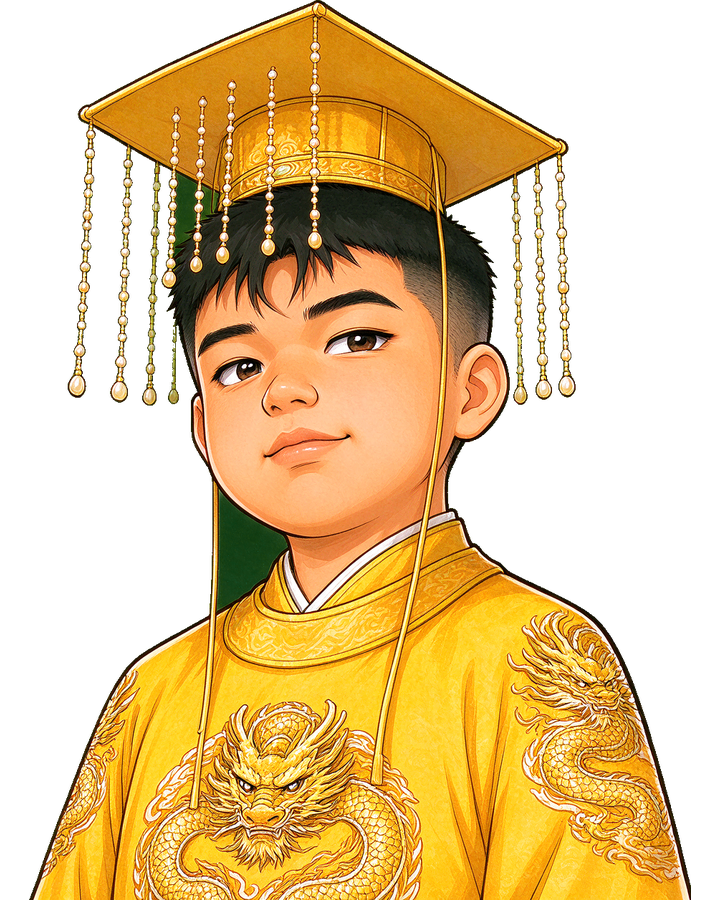
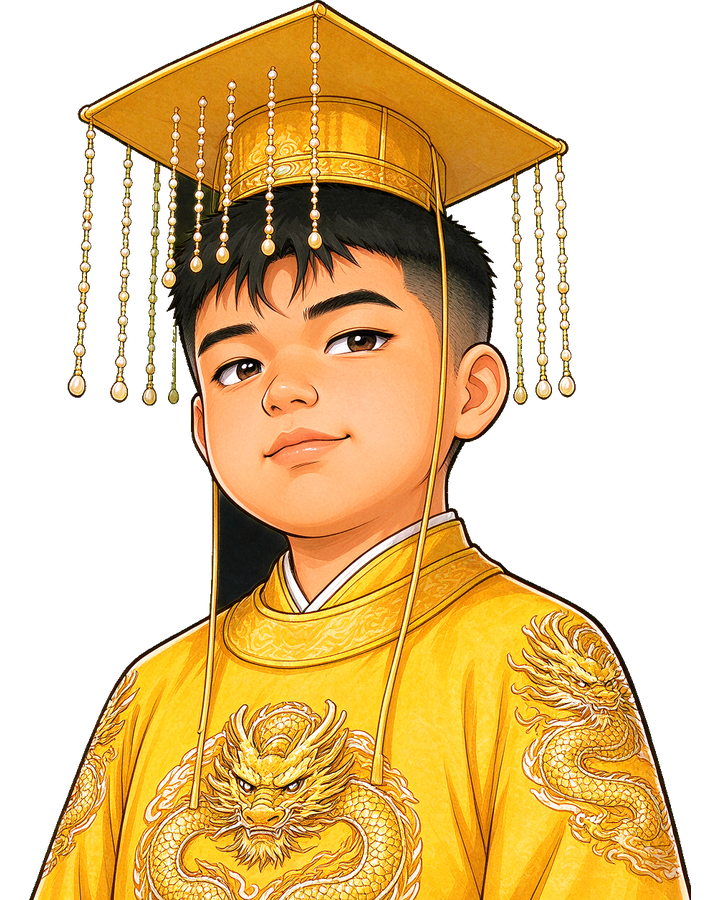
fix(ch01): 立绘去绿边与旁白不挂立绘
- 新增 tools/despill-portrait.py（green-limit，alpha 不变），全部 16 张立绘去绿边（深色头发绿幕残留）
- 旁白开口时收脸；下一位说话人重新上脸，同人 soft 原地淡回（PortraitLayer 收脸保留 image）
- 金殿删除「青筋暴起」前提前换郑卿立绘的 act；旁白只靠表情气泡
- 更新 AGENTS/ASSET-CREDITS/RESOURCE-SPEC/CH01-ACCEPTANCE 与相关单测

Changed region(s): [[0.3056, 0.5289, 0.3972, 0.6844], [0.2444, 0.1867, 0.3056, 0.28]]

diff --git a/test/palace-portrait-speaker.test.ts b/test/palace-portrait-speaker.test.ts
@@ -114,10 +114,16 @@ describe('金殿：每句台词开口时，立绘就是说话人本人', () => {
     }
   });
 
-  it('旁白不在对位表里（旁白不换脸），未知说话人也不动立绘', () => {
+  it('旁白不在对位表里，且开口时收脸（旁白不挂立绘）；未登记的人同样不动立绘', () => {
     expect(palacePortraitForSpeaker('旁白')).toBeUndefined();
     expect(palacePortraitForSpeaker(undefined)).toBeUndefined();
     expect(palacePortraitForSpeaker('没有登记的人')).toBeUndefined();
+    expect(reducePortraitForSay('旁白', { key: PALACE_TEXTURES.portraitZheng })).toEqual({
+      action: 'hide',
+    });
+    expect(reducePortraitForSay('没有登记的人', { key: PALACE_TEXTURES.portraitZheng })).toEqual({
+      action: 'hide',
+    });
   });
 });
 
@@ -165,9 +171,16 @@ describe('金殿：2026-11-18 实机串脸的那几句（回归）', () => {
     expect(line.portrait?.key).toBe(PALACE_TEXTURES.portraitMiner);
   });
 
-  it('周全顶完嘴之后镜头交回郑卿：「青筋暴起」这句时挂郑卿，气泡也才落在他头上', () => {
-    const after = playPortraits().find((line) => line.text.includes('青筋暴起'));
-    expect(after?.portrait?.key).toBe(PALACE_TEXTURES.portraitZheng);
+  it('「青筋暴起」是旁白：这句收脸，下一句郑卿开口才重新挂他的脸', () => {
+    const lines = playPortraits();
+    const narrationAt = lines.findIndex((line) => line.text.includes('青筋暴起'));
+    expect(narrationAt).toBeGreaterThanOrEqual(0);
+    expect(lines[narrationAt]?.portrait).toBeNull();
+    const nextZheng = lines
+      .slice(narrationAt + 1)
+      .find((line) => line.speaker === '郑卿');
+    // 这一句带 portraitEmotion happy（得意），所以挂的是情绪差分而不是基础脸。
+    expect(nextZheng?.portrait?.key).toBe('img.char.portrait.zheng_happy');
   });
 });
 

diff --git a/src/ui/portrait-layer.ts b/src/ui/portrait-layer.ts
@@ -46,11 +46,27 @@ export class PortraitLayer {
     }
 
     if (options.soft === true && this.image) {
-      this.image.setTexture(key);
-      this.image.setDisplaySize(metrics.width, metrics.height);
-      this.image.setPosition(metrics.anchorX, metrics.baseY);
-      this.image.setFlipX(side === 'left');
+      const image = this.image;
+      image.setTexture(key);
+      image.setDisplaySize(metrics.width, metrics.height);
+      image.setPosition(metrics.anchorX, metrics.baseY);
+      image.setFlipX(side === 'left');
       this.key = key;
+      this.scene.tweens.killTweensOf(image);
+      if (this.reduced) {
+        image.setAlpha(1);
+      } else {
+        this.scene.tweens.add({
+          targets: image,
+          alpha: 1,
+          y: metrics.baseY,
+          duration: 160,
+          ease: 'Sine.easeOut',
+          onComplete: () => this.startBreath(),
+        });
+        return;
+      }
+      this.startBreath();
       return;
     }
 
@@ -87,14 +103,19 @@ export class PortraitLayer {
     });
   }
 
+  /**
+   * 收脸：淡出但**保留 image 对象**（alpha=0、key 置空）。
+   *
+   * 保留的理由是旁白：2026-11-25 起旁白不挂立绘，旁白结束同一个人再开口时要原地淡回来
+   * （`soft`），不能每次从画面外滑进来。换人时 `show()` 会把旧 image 销毁重建。
+   */
   hide(ms = 180): void {
     const image = this.image;
     if (!image) return;
     this.stopBreath();
-    this.image = null;
     this.key = null;
     if (this.reduced) {
-      image.destroy();
+      image.setAlpha(0);
       return;
     }
     this.scene.tweens.add({
@@ -102,7 +123,6 @@ export class PortraitLayer {
       alpha: 0,
       y: image.y + 26,
       duration: ms,
-      onComplete: () => image.destroy(),
     });
   }
 

diff --git a/src/story/ch01-palace.ts b/src/story/ch01-palace.ts
@@ -119,8 +119,10 @@ export function reducePortraitForSay(
   emotion?: PortraitEmotion,
 ): PalacePortraitStep {
   const entry = palacePortraitForSpeaker(speaker, emotion);
-  if (entry === undefined) return { action: 'keep' };
-  if (entry === null) return current ? { action: 'hide' } : { action: 'keep' };
+  // 旁白/未登记（undefined）同样收脸：旁白不挂立绘。
+  if (entry === undefined || entry === null) {
+    return current ? { action: 'hide' } : { action: 'keep' };
+  }
   if (current?.key === entry.key) return { action: 'keep' };
   return { action: 'show', key: entry.key, side: entry.side };
 }
@@ -378,13 +380,8 @@ export const PALACE_BEATS: readonly PalaceBeat[] = [
   },
   { kind: 'say', speaker: '郑卿', text: '你这刺客，好大的胆子！竟敢跟朕称兄道弟起来了？', portraitEmotion: 'shocked' },
   { kind: 'say', speaker: '周全', text: '谁和你称兄道弟了？你想当我儿子我还不乐意呢！' },
-  {
-    // 周全顶完嘴把镜头交回郑卿：下一句旁白要「看到青筋」、气泡也挂在他头上，
-    // 所以先换回他的脸，别让周全的慌张特写一直挂到郑卿开口（上一版就是这样串的脸）。
-    kind: 'act',
-    actions: [{ kind: 'portrait', key: PALACE_TEXTURES.portraitZheng, side: 'right' }],
-    ms: 240,
-  },
+  // 旁白不挂立绘（2026-11-25 用户要求）：这一拍不再提前把郑卿的脸换上来，
+  // 「青筋暴起」只靠世界层的表情气泡表达；下一句郑卿开口时立绘会 soft 淡回来。
   { kind: 'say', speaker: '旁白', text: '你看到郑卿脸上青筋暴起。' },
   {
     // 旁白说完才冒气泡：先看见青筋、再听见他发火，因果顺序不能倒。

diff --git a/src/ui/dialogue-portrait.ts b/src/ui/dialogue-portrait.ts
@@ -1,6 +1,10 @@
 import Phaser from 'phaser';
 import type { DialogueLine } from '../story/dialogue';
-import { reducePortraitForLine, type SpeakerPortrait } from '../story/portraits';
+import {
+  portraitOwnerOfKey,
+  reducePortraitForLine,
+  type SpeakerPortrait,
+} from '../story/portraits';
 import { PortraitLayer } from './portrait-layer';
 
 /** 一句台词里能影响立绘的字段（场景只把 `DialogueLine` 的子集交给它）。 */
@@ -23,6 +27,13 @@ export class DialoguePortrait {
   private readonly scene: Phaser.Scene;
   private readonly layer: PortraitLayer;
   private current: SpeakerPortrait | null = null;
+  /**
+   * 上一次真正上过脸的角色。
+   *
+   * 旁白会收脸（`current=null`），但「旁白前是谁」要记住：同一人紧接旁白再开口时，
+   * 走 soft 原地淡回来，而不是又从画面外滑进来。
+   */
+  private lastOwner: string | null = null;
 
   constructor(scene: Phaser.Scene, reduced: boolean) {
     this.scene = scene;
@@ -48,8 +59,12 @@ export class DialoguePortrait {
       this.hide();
       return;
     }
-    this.layer.show(step.key, step.side, { soft: step.soft === true });
+    const owner = portraitOwnerOfKey(step.key);
+    const soft =
+      step.soft === true || (this.current === null && owner !== null && owner === this.lastOwner);
+    this.layer.show(step.key, step.side, { soft });
     this.current = { key: step.key, side: step.side };
+    this.lastOwner = owner;
   }
 
   hide(ms = 180): void {

diff --git a/src/story/portraits.ts b/src/story/portraits.ts
@@ -185,7 +185,7 @@ function lineSuppressesPortrait(
  * - 同一个人已经在场 → `keep`：保留显式站位，不要每句都从画面边上滑回来；
  * - 换人 → `show` 该角色的立绘与默认站位；
  * - 说话人明确没有立绘 / 未登记的陌生人 → `hide`（宁可空着，也不挂别人的脸）；
- * - 旁白 → `keep`（不闪）；
+ * - 旁白 → `hide`（旁白不挂立绘，2026-11-25 用户要求）；
  * - CG/黑场行 → `hide`，CG 结束后的旁白也保持收脸，直到下一位有脸的人开口。
  */
 export function reducePortraitForLine(
@@ -197,8 +197,11 @@ export function reducePortraitForLine(
 ): PortraitStep {
   if (lineSuppressesPortrait(line)) return current ? { action: 'hide' } : { action: 'keep' };
   const entry = portraitForSpeaker(line.speaker, line.role, line.portraitEmotion);
-  if (entry === undefined) return { action: 'keep' };
-  if (entry === null) return current ? { action: 'hide' } : { action: 'keep' };
+  // 旁白（undefined）与「明确没立绘」（null）都收脸：2026-11-25 用户明确「旁白时候不需要有立绘」。
+  // 下一位说话人会重新入场；同一个人再开口时由 `DialoguePortrait` 走 soft 淡回来（不滑入）。
+  if (entry === undefined || entry === null) {
+    return current ? { action: 'hide' } : { action: 'keep' };
+  }
   if (current?.key === entry.key) return { action: 'keep' };
   const soft =
     current !== null &&

diff --git a/test/dialogue-portrait-registry.test.ts b/test/dialogue-portrait-registry.test.ts
@@ -22,7 +22,7 @@ import { reducePortraitForSay } from '../src/story/ch01-palace';
  *
  * 1. 每个剧本里出现过的说话人都在 `SPEAKER_PORTRAITS` 里表过态（有脸给 key，没脸给 null）；
  * 2. 那个 key 所在的 bundle **真的被该场景加载**（不是画了图却没打进去）；
- * 3. 归约语义：旁白保持、换人换脸、没脸收脸、CG/黑场不叠图。
+ * 3. 归约语义：旁白收脸、换人换脸、没脸收脸、CG/黑场不叠图。
  */
 
 const STORY_SOURCES = [
@@ -135,9 +135,11 @@ describe('reducePortraitForLine：谁开口谁上脸', () => {
     });
   });
 
-  it('旁白不换脸（避免每句旁白闪一下）', () => {
-    expect(reducePortraitForLine({ speaker: '旁白' }, zhou)).toEqual({ action: 'keep' });
-    expect(reducePortraitForLine({}, xiaobai)).toEqual({ action: 'keep' });
+  it('旁白不挂立绘（有脸就收掉；本来没脸则什么都不做）', () => {
+    expect(reducePortraitForLine({ speaker: '旁白' }, zhou)).toEqual({ action: 'hide' });
+    expect(reducePortraitForLine({}, xiaobai)).toEqual({ action: 'hide' });
+    expect(reducePortraitForLine({ speaker: '旁白' }, null)).toEqual({ action: 'keep' });
+    expect(reducePortraitForLine({}, null)).toEqual({ action: 'keep' });
   });
 
   it('明确没立绘的人（新闻主持人）开口：收脸，不顶别人的脸', () => {

diff --git a/src/scenes/ch01-palace-scene.ts b/src/scenes/ch01-palace-scene.ts
@@ -113,6 +113,8 @@ export class Ch01PalaceScene extends UIScene {
   private readonly walking = new Map<PalaceActorId, { timer: Phaser.Time.TimerEvent; base: string }>();
   private director: CinematicDirector | null = null;
   private portrait: PortraitLayer | null = null;
+  /** 上一次真正上过脸的说话人（旁白收脸后再开口时用 soft 淡回来）。 */
+  private lastPortraitSpeaker: string | null = null;
   /** 郑卿愤怒 / 周全震惊的表情气泡（世界层，跟着镜头推拉）。 */
   private emotionBubble: EmotionBubble | null = null;
   /** 世界层（地图 + 角色）：镜头推拉通过缩放它实现，不碰相机，所以 DOM/Compose 的对话框不会被带走。 */
@@ -697,8 +699,13 @@ export class Ch01PalaceScene extends UIScene {
       currentKey ? { key: currentKey } : null,
       emotion,
     );
-    if (step.action === 'show') this.portrait?.show(step.key, step.side);
-    else if (step.action === 'hide') this.portrait?.hide();
+    if (step.action === 'show') {
+      const soft = this.lastPortraitSpeaker !== null && this.lastPortraitSpeaker === speaker;
+      this.portrait?.show(step.key, step.side, { soft });
+      this.lastPortraitSpeaker = speaker ?? null;
+    } else if (step.action === 'hide') {
+      this.portrait?.hide();
+    }
   }
 
   private runAction(action: PalaceAction): void {

diff --git a/tools/despill-portrait.py b/tools/despill-portrait.py
@@ -1,0 +1,89 @@
+#!/usr/bin/env python3
+"""立绘绿边去除（despill）：把「绿幕抠像残留」从头发/边缘里拉回来。
+
+背景：半身立绘是「纯绿 #00FF00 背景 → keyImageJob 抠像 → make-palace-portrait 裁切」。
+抠像参数 `despill 0.65` 对白色/金色主体够用，但**深色头发**是半透明边缘 + 抗锯齿，
+残留的绿不会被完全消掉；贴到深色底上就是「头发里泛绿」。2026-11-25 用户实机指出。
+
+这不是重新生成，也不是重新抠像：只对已经抠好的 PNG 做一次确定性的去绿边，
+所有像素的 alpha 完全不动。
+
+做法（经典的 green-limit）：
+    m = max(r, b)
+    if g > m: g = m
+半透明边缘（alpha < 250）再按 alpha 往回收一档，避免描边内侧还有一圈绿。
+这些立绘里没有「本来应该是绿色」的主体（小白白袍、郑卿金袍、老麦红袍），
+所以按像素判定、不按区域，是安全的。
+
+用法：
+  python3 tools/despill-portrait.py public/assets/img/character/ch01/portrait_*.png
+  python3 tools/despill-portrait.py --stats public/.../portrait_zhou_neutral.png
+"""
+
+from __future__ import annotations
+
+import argparse
+import sys
+from pathlib import Path
+
+from PIL import Image
+
+ALPHA_SOFT = 250
+
+
+def despill_pixel(r: int, g: int, b: int, a: int) -> tuple[int, int, int]:
+    """去掉绿色偏移；alpha 不参与输出。"""
+    limit = max(r, b)
+    if g <= limit:
+        return r, g, b
+    # 半透明边缘多收一点：抠像在边缘会把绿色混进颜色，视觉上比内部更明显。
+    if a < ALPHA_SOFT:
+        limit = max(0, limit - (ALPHA_SOFT - a) // 24)
+    return r, limit, b
+
+
+def process(path: Path, stats_only: bool = False) -> int:
+    image = Image.open(path).convert('RGBA')
+    pixels = list(image.getdata())
+    changed = 0
+    max_excess = 0
+    out = []
+    for r, g, b, a in pixels:
+        if a == 0:
+            out.append((r, g, b, a))
+            continue
+        excess = g - max(r, b)
+        if excess > 0:
+            max_excess = max(max_excess, excess)
+        nr, ng, nb = despill_pixel(r, g, b, a)
+        if (nr, ng, nb) != (r, g, b):
+            changed += 1
+        out.append((nr, ng, nb, a))
+    if not stats_only and changed > 0:
+        result = Image.new('RGBA', image.size)
+        result.putdata(out)
+        result.save(path, optimize=True)
+    print(
+        f"{path.name}: {changed} px despilled, max green excess {max_excess}"
+        + ('  (stats only)' if stats_only else ''),
+    )
+    return changed
+
+
+def main() -> int:
+    parser = argparse.ArgumentParser(description='去立绘绿边')
+    parser.add_argument('files', nargs='+', type=Path)
+    parser.add_argument('--stats', action='store_true', help='只统计，不写回')
+    args = parser.parse_args()
+    total = 0
+    for path in args.files:
+        if not path.exists():
+            print(f'缺少文件：{path}', file=sys.stderr)
+            return 1
+        total += process(path, args.stats)
+    print(f'[despill] 共处理 {total} 个像素')
+    return 0
+
+
+if __name__ == '__main__':
+    raise SystemExit(main())

diff --git a/AGENTS.md b/AGENTS.md
@@ -67,12 +67,12 @@ pnpm android:release
     改用与剧情同一个底部 `buildDialoguePanel`（672×300、打字机、分页、点任意位置补全/继续）。
     - 对位唯一真值是 `src/story/portraits.ts` 的 `SPEAKER_PORTRAITS` + `reducePortraitForLine()`；
       场景只调 `DialoguePortrait.alignForLine(line)`，**不许在场景里写「谁说话挂哪张脸」的 if**。
-    - 旁白保持上一张脸；明确没立绘的人（新闻主持人＝CG 里的人）给 `null` 收脸；**未登记的说话人一律收脸**，
+    - **旁白不挂立绘**（2026-11-25 用户要求）：有脸就收；下一位说话人重新上脸，同一个人紧接着再开口时走 soft 原地淡回来（不滑入）。明确没立绘的人（新闻主持人＝CG 里的人）给 `null` 收脸；**未登记的说话人一律收脸**，
       并由 `test/dialogue-portrait-registry.test.ts` 报错——加角色必须先在表里表态。
     - 带 `cg` / `blackout` / `dark` 的行不叠立绘（画面已经由 CG / 暗场承载）。
     - 立绘是**屏幕层**：`PortraitLayer` 必须 `setScrollFactor(0)`。御膳房相机跟着玩家滚动，
       漏了这行立绘会被滚出画面（2026-11-24 实测：寝室/金殿正常、御膳房只剩黑边）。
-    - 立绘 PNG 720×900 RGBA、透明底、左右留边；按角色共用程度分三个 bundle：
+    - 立绘 PNG 720×900 RGBA、透明底、左右留边；**抠像后必须跑 `tools/despill-portrait.py`**（深色头发的绿幕残留会泛绿，2026-11-25 实机指出）；按角色共用程度分三个 bundle：
       `ch01.portraits`（周全/小白/矿工，四个场景共用）、`ch01.kitchen`（老麦/老肯）、
       `cutscene.ch01palace`（郑卿/楚公公/侍卫/周全慌张）。key 统一 `img.char.portrait.*`。
     - 对话结束/跳过/进菜单必须 `portrait.hide()`，SHUTDOWN 必须 `destroy()`（场景实例会复用）。

diff --git a/docs/CH01-ACCEPTANCE.md b/docs/CH01-ACCEPTANCE.md
@@ -326,6 +326,7 @@
 | 郑卿 | 平常（现有）/ 震惊 / 得意 / 尴尬 四张，只在金殿过场使用 |
 | 切换机制 | `DialogueLine.portraitEmotion`（expressive 行 cue）+ `SPEAKER_PORTRAIT_EMOTIONS` + `reducePortraitForLine`；缺省回落默认脸，同角色换表情 `soft` 原地换图（不滑入） |
 | 标注 | 按台词内容标注：dorm/after/kitchen/palace 的周全与郑卿，以及第一场教程对话（`ch01-first-battle.ts` 的 `zhou(text, emotion)`） |
-| 特殊规则 | 黑场/压迫/趴地起身（`getUp`）/ CG 行不挂立绘；金殿周全用被按跪慌张特写，不套差分 |
+| 特殊规则 | **旁白不挂立绘**（收脸，下一位说话人再上脸；同人 soft 淡回来）；黑场/压迫/趴地起身（`getUp`）/ CG 行不挂立绘；金殿周全用被按跪慌张特写，不套差分 |
+| 绿边修复 | 全部 16 张立绘跑 `tools/despill-portrait.py`（深色头发绿幕残留，2026-11-25 实机指出） |
 | 护栏 | `test/dialogue-portrait-registry.test.ts`（21 条）+ `test/palace-five-items.test.ts`（17 张立绘规格）+ `test/palace-portrait-speaker.test.ts`（逐句带情绪对位） |
 | `pnpm check` | 通过（787 tests / 79 files，assets 271 key） |

diff --git a/docs/RESOURCE-SPEC.md b/docs/RESOURCE-SPEC.md
@@ -104,6 +104,7 @@ interface AssetDef {
 
 
 - 2026-11-25（t58 情绪差分立绘）：周全 4 张（`img.char.portrait.zhou` 换成新画的平常图，原皱眉图改名 `portrait_zhou_frown.png` 并赐 key `img.char.portrait.zhou_frown`；新增 `zhou_shocked / zhou_happy / zhou_awkward`），全部在共享 `ch01.portraits`（budget 3072 → 6144，实测约 5.5 MB）；郑卿 3 张（`zheng_shocked / zheng_happy / zheng_awkward`）在 `cutscene.ch01palace`（budget 保持 8192，实测约 6 MB）。文件：`assets/img/character/ch01/portrait_zhou_{neutral,frown,shocked,happy,awkward}.png`、`assets/img/character/palace/portrait_zheng_{shocked,happy,awkward}.png`，都是 720×900 RGBA 透明底。切换由台词行 cue `DialogueLine.portraitEmotion` + `SPEAKER_PORTRAIT_EMOTIONS` 决定，见 `docs/ASSET-CREDITS.md` §11.19。
+- 2026-11-25（立绘去绿边）：全部 16 张半身立绘用 `tools/despill-portrait.py` 重做一次去绿边（key/文件名/bundle 不变，只是像素修正，体积略有变化），并重跑 `assets:scan`。根因与做法见 `docs/ASSET-CREDITS.md` §11.19 末尾。
 
 ## 3. 场景资源作用域（核心机制）
 

diff --git a/docs/ASSET-CREDITS.md b/docs/ASSET-CREDITS.md
@@ -615,6 +615,9 @@ v2 起改成每人一张、纯绿幕底（方便抠像），替换原来的 2×2
 - 验收：`test/palace-five-items.test.ts`（17 张立绘按 文件→key→bundle 校验）、
   `test/dialogue-portrait-registry.test.ts`（差分登记 / 缺省回落 / soft 换图 / 起身不挂脸 / 金殿郑卿差分）；
   实机脚本 `.evidence/scripts/capture-emotions-2026-11-25.mjs`。
+- 2026-11-25 返工（用户实机指出「头发里都有点绿」）：`keyImageJob` 的 `despill 0.65` 对深色头发不够，
+  抠像边缘残留绿幕。新增 `tools/despill-portrait.py`（green-limit：`g = min(g, max(r,b))`，半透明边缘再收一档，
+  alpha 完全不动），对全部 16 张立绘（含 11-24 之前的 6 张）统一去绿边；不是重新生成、不重新抠像。
 - 复核：上架前按火山方舟商用条款复核，商店页注明「AI 生成美术」。
 
 ## 12. 御膳房 P2 B1 地图风格样张（2026-10-31）
